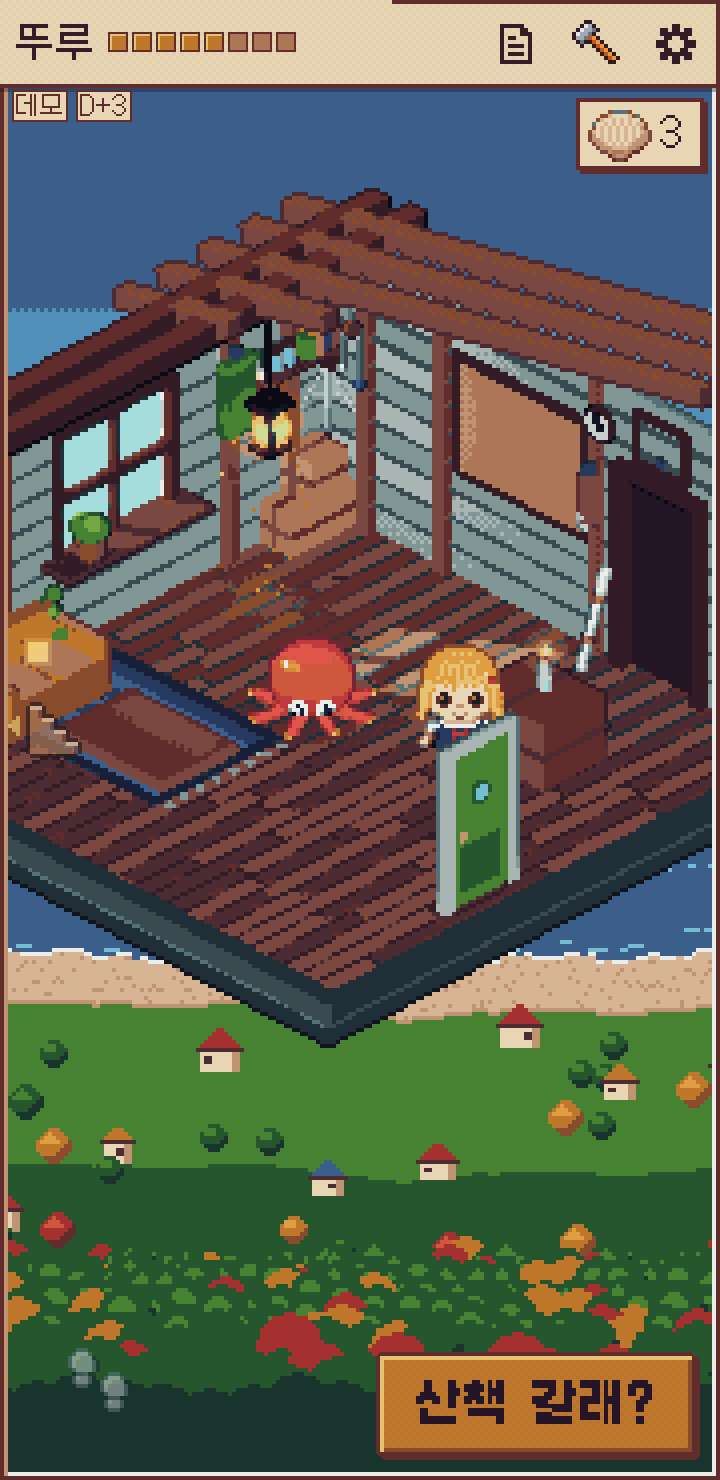
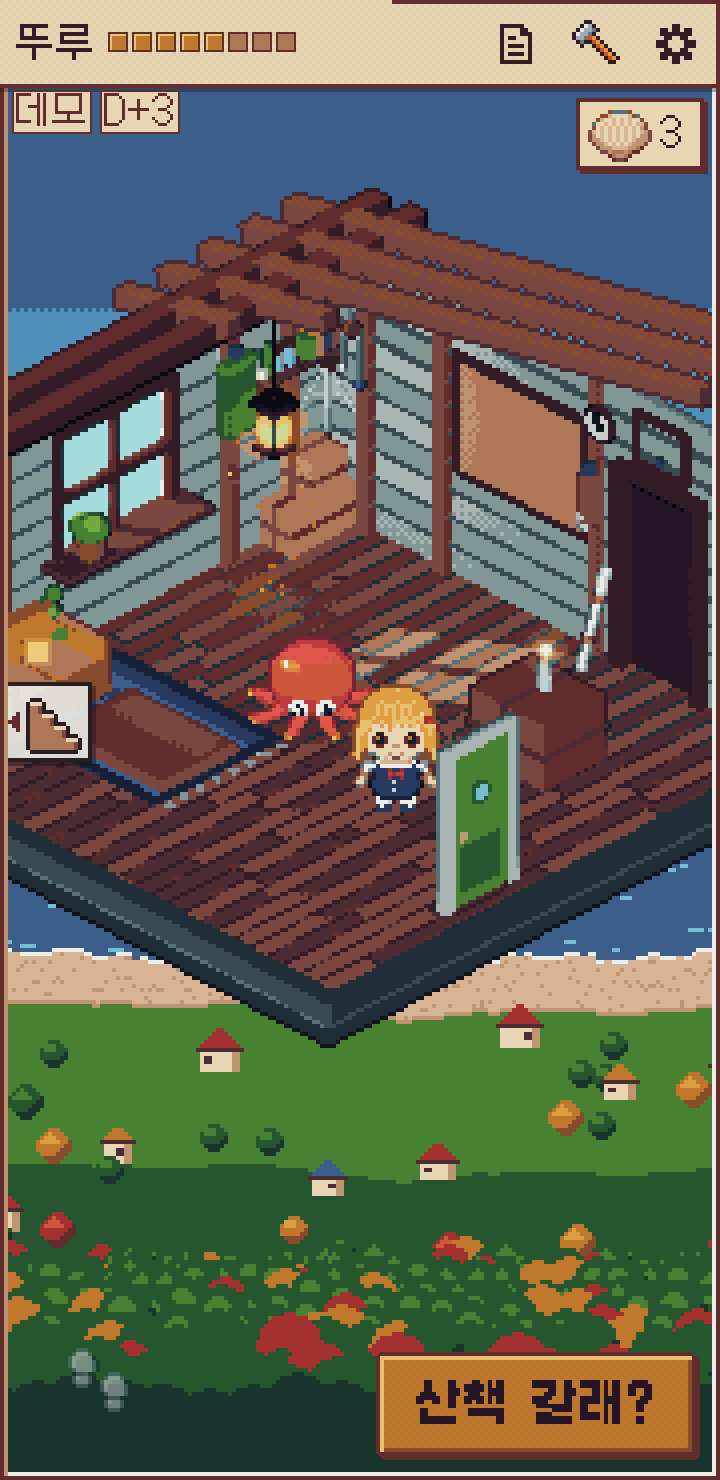
7차 넷째 바퀴 (한 커밋으로): 갈래 U — 글자 16px 바닥: 작은 글 (m16) · 말풍선 크기가 어느 배율 (1 ~ 4) 에서도 목표 밑으로 안 감 · 픽셀 글꼴을 끄면 보이는 글자 16px 밑을 16px 로 · 모션 줄이기 두 번 톡도 600 ms 지킴 · 계단 가장자리 그림 대비 (a244021) · tools/test-fs-snap.js 를 npm test · CI 에
Claude-Session: https://claude.ai/code/session_01Tq2y4UPNUfNv1Bsd1UKef2

diff --git a/js/app.js b/js/app.js
@@ -1711,18 +1711,18 @@ var APP = (function () {
   function goTap(e) {
     if (afterSheet(e)) return;   /* 시트가 닫힌 바로 뒤 (두 번 톡의 둘째): 초대 · 데려오기 · 연출 감기 어느 것도 하지 않는다 */
     salonFinish();   /* 미용실 연출 중이면 남은 연출을 한 번에 감고 (새 색 · 대야 치움 · 남은 행) 초대는 평소대로 */
-    var now = Date.now(), rapid = goRapid(now); lastGo = now;
+    var now = Date.now(), rapid = goRapid(now), quick = now - lastGo < SKIP_GUARD; lastGo = now;   /* 11-24 quick: 앞 누름에서 SKIP_GUARD 안 — 모션 줄이기면 출발이 한 프레임이라 두 번 톡의 둘째가 skipReady 를 지나 산책을 바로 끝냈다 */
     if (inPlay() || roomJob) {   /* 놀이방이면 먼저 문으로 문어 방에 돌아와서 (8물결). 누른 *그때* 의 뜻대로: 다녀오는 중이었으면 데려오기(건너뛰기)만 — 문을 지나는 사이 산책이 끝났으면 아무것도 안 한다 (새 산책이 되지 않게) */
       var wasBusy = busy;
       backToOctRoom().then(function (ok) {
         if (!ok) return;
-        if (wasBusy) { if (busy && Date.now() >= skipReady) skip(); }
+        if (wasBusy) { if (busy && !quick && Date.now() >= skipReady) skip(); }
         else if (!busy && !rapid) invite();
       });
       return;
     }
     if (!busy) { if (!rapid) invite(); return; }
-    if (Date.now() < skipReady) return;
+    if (quick || Date.now() < skipReady) return;
     skip();
   }
   /* 상태 줄 이름 옆 '데모' 표시 (정직 표기, index.html #brain-tag): 데모 두뇌(규칙)가 고르는 동안 늘. 모델(MCP)이 고른 여행을 재생하는 동안만 숨긴다 */
@@ -2434,6 +2434,7 @@ var APP = (function () {
      위 가장자리에 걸린 행이 있으면: 가장 새 행이 그대로 다 보이는 한 그 행 머리로 올린다. 그래도 안 되면 아래 빈칸을 그만큼 늘려 다음 행 머리에 맞춘다 (잘린 상자 대신 아래 여백).
      행 자리는 offsetTop (#log 가 기준 — 등장 애니메이션의 transform 과 상관없이). logGap = 맨 아래에서 올린 만큼 (손으로 굴렸는지 볼 때 같이 뺀다) */
   function logSnapTop(log) {
+    if (FF.on) ffFix(log);   /* 11-24: 기본 글꼴의 글자 바닥을 재기 전에 (그린 뒤에 커지면 맞춘 자리가 어긋났다) */
     log.style.paddingBottom = '';
     var max = log.scrollHeight - log.clientHeight, view = log.clientHeight, GAP = 2;
     logGap = 0;
@@ -5491,11 +5492,49 @@ var APP = (function () {
      두 창의 open 속성만 본다 (달리기 창은 처음 열 때 생긴다 → body 아래 전부를 본다. 여닫는 코드는 건드리지 않는다) */
   function sceneCoverSync() { if (scene && typeof scene.setCovered === 'function') scene.setCovered(!!document.querySelector('#runner-dlg[open], #cook-overlay[open]')); }
   if (window.MutationObserver && document.body) new MutationObserver(sceneCoverSync).observe(document.body, { attributes: true, attributeFilter: ['open'], subtree: true });
+  /* 11-24 글자 바닥 (점검: 픽셀 글꼴을 끄면 (data-font=system) 13 · 12 · 11 px 글자가 HUD · 설정 · 앨범 · 일기 · 가방 · 옷장 곳곳에 남았다 — 보이는 글자는 늘 16 px 이상):
+     기본 글꼴 모드에서만, 글자를 직접 품은 요소의 계산된 크기가 16 px 밑이면 그 요소만 16 px 로 올린다 (줄 높이가 모자라면 함께). 새로 그려지는 시트 · 줄도 따라 맞춘다 (MutationObserver).
+     픽셀 글꼴로 돌아가면 올린 것을 다 거둔다. SVG 글 (포스터 그림 속) · 화면 낭독기 전용 글 (.sr-only) 은 건드리지 않는다 */
+  var FF = { on: false, mo: null, q: [], raf: 0, moved: false };
+  function ffText(el) { for (var c = el.firstChild; c; c = c.nextSibling) if (c.nodeType === 3 && /\S/.test(c.nodeValue)) return true; return false; }
+  function ffOne(el) {
+    if (el.nodeType !== 1 || el.namespaceURI !== 'http://www.w3.org/1999/xhtml' || el.closest('svg, .sr-only, [data-ff-skip]') || !ffText(el)) return;
+    var cs = getComputedStyle(el), f = parseFloat(cs.fontSize); if (!(f > 0) || f >= 15.99) return;
+    el.style.setProperty('font-size', '16px'); el.setAttribute('data-ff', '1'); FF.moved = true;
+    var lh = parseFloat(cs.lineHeight); if (lh > 0 && lh < 20) el.style.setProperty('line-height', '20px');
+  }
+  function ffFix(root) { if (!root || root.nodeType !== 1) return; ffOne(root); var all = root.getElementsByTagName('*'); for (var i = 0; i < all.length; i++) ffOne(all[i]); }
+  function ffFlush() { FF.raf = 0; var q = FF.q; FF.q = []; if (FF.on) for (var i = 0; i < q.length; i++) if (q[i].isConnected) ffFix(q[i]); ffAfter(); }
+  function ffSnapLog() { var log = $('log'); if (!log || !logStick) return; var top = logSnapTop(log); progScrollUntil = Date.now() + 80; logTarget = -1; log.scrollTop = top; logLastY = log.scrollTop; }
+  function ffAfter() { if (!FF.moved) return; FF.moved = false; try { ffSnapLog(); requestAnimationFrame(function () { try { ffSnapLog(); } catch (e) {} }); } catch (e) { /* 부팅 중: 로그가 아직 없다 */ } }   /* 바로 놓고 (부드러운 스크롤이 크기 바뀜과 엉키지 않게) 다음 프레임에 한 번 더 */   /* 크기가 바뀌면 오늘의 산책 로그의 맨 위 행 맞춤을 다시 (붙여 둔 채일 때만 — scrollLog 가 본다) */
+  function ffSync() {
+    var on = document.documentElement.getAttribute('data-font') === 'system';
+    if (on === FF.on) return; FF.on = on;
+    if (on) {
+      ffFix(document.body);
+      FF.mo = FF.mo || new MutationObserver(function (ms) { ms.forEach(function (m) { for (var i = 0; i < m.addedNodes.length; i++) { var n = m.addedNodes[i]; FF.q.push(n.nodeType === 1 ? n : m.target); } }); ffFlush(); });   /* 그린 그 자리에서 (다음 프레임 전) */
+      FF.mo.observe(document.body, { childList: true, subtree: true });
+    } else {
+      if (FF.mo) FF.mo.disconnect();
+      Array.prototype.forEach.call(document.querySelectorAll('[data-ff]'), function (el) { el.style.removeProperty('font-size'); el.style.removeProperty('line-height'); el.removeAttribute('data-ff'); FF.moved = true; });
+    }
+    ffAfter();
+  }
+  if (window.MutationObserver && document.body) { new MutationObserver(ffSync).observe(document.documentElement, { attributes: true, attributeFilter: ['data-font'] }); ffSync(); }
+  /* 11-24 폰 (꼬리표를 바 아래에 매다는 폭): 'D+N' 은 '데모' 꼬리표의 실제 오른쪽 끝에서 4 px — 글자 크기가 배율마다 달라 (16 · 18 · 20.6 px) 고정 자리는 겹치거나 벌어졌다 */
+  function placeDayN() {
+    var el = $('day-n'), tg = $('brain-tag'); if (!el || !tg) return;
+    if (getComputedStyle(el).position !== 'absolute' || tg.hidden || getComputedStyle(tg).position !== 'absolute') { el.style.removeProperty('left'); return; }
+    el.style.left = (tg.offsetLeft + tg.offsetWidth + 4) + 'px';
+  }
+  if (window.ResizeObserver) { var dnRO = new ResizeObserver(function () { placeDayN(); }); ['brain-tag', 'day-n'].forEach(function (id) { var e = $(id); if (e) dnRO.observe(e); }); }
+  window.addEventListener('resize', function () { placeDayN(); });
   function dayCount() { return isObj(S.user) && Array.isArray(S.user.days) ? S.user.days.length : 0; }
   function renderDayN() {
     var el = $('day-n'), n = dayCount(); if (!el) return;
     el.hidden = n < 1; el.textContent = n < 1 ? '' : 'D+' + n;
     if (n < 1) el.removeAttribute('aria-label'); else el.setAttribute('aria-label', '들어온 지 ' + n + '일째');
+    placeDayN();
   }
 
 

diff --git a/tools/smoke.js b/tools/smoke.js
@@ -290,7 +290,7 @@ async function scenarioMain(browser) {
   ok(strip.h <= 44 && strip.rows === 1 && Math.abs(strip.nameTop - strip.pipsTop) < 12, '상태 줄 한 줄 ≤44px (' + strip.h + 'px)');
   ok(/등불/.test(strip.txt) && /1\/8/.test(strip.txt) && !strip.demo && !strip.stat && !/여행|함께한 날/.test(strip.txt), "상태 줄: '등불 … 1/8', 예전 데모 두뇌 칩·여행·함께한 날 없음");
   /* 11-15 5차 (주인: 작은 글자도 받침이 안 뭉개지게 — Galmuri7 8px → Galmuri11 12px, 기기 배율에 맞추면 최대 약 13.7px): 작되 읽히는 크기 */
-  ok(strip.tag === '데모' && strip.tagSr === '데모 규칙이 움직이는 중' && strip.tagFs >= 10 && strip.tagFs <= 14, "상태 줄(좁으면 바로 아래)의 작은 '데모' 표시 (" + strip.tagFs + "px, 화면 낭독기 '데모 규칙이 움직이는 중')");
+  ok(strip.tag === '데모' && strip.tagSr === '데모 규칙이 움직이는 중' && strip.tagFs >= 16 && strip.tagFs <= 16 * 1.35 + 0.02, "상태 줄(좁으면 바로 아래)의 '데모' 표시 — 11-22 보이는 글자는 16 px 이상 (" + strip.tagFs + "px, 화면 낭독기 '데모 규칙이 움직이는 중')");
   ok(!(await page.$('#hint-in')) && !(await page.$('#hint-box')), '힌트 칸은 개발 화면에도 없다 (11-10 에 없앰)');
   ok((await page.$$('#log .lrow')).length >= 5, '로그 행 ≥5');
   await page.waitForTimeout(200);
@@ -5128,7 +5128,7 @@ async function scenarioTapFit(browser) {
           if (r.dy) slid++;
           /* 11-15 갈래 H (주인: 말풍선이 화면을 가린다) → 5차 (주인: 글자 조금 키움): 폭은 장면의 60% (150~220px) · 픽셀은 Galmuri11 을 기기 px 에 맞춘 약 17px
              (눈금 12 × 정수 n / 배율 — index.html 머리 스크립트의 --bub-fs, 배율 1 이면 12px) · 줄 높이 1.5 · 24+… 줄은 세 줄 안 */
-          var capW = Math.max(150, Math.min(220, Math.floor(r.sw * 0.6))), bubFs = Math.ceil(12 * Math.max(1, Math.round(17 * r.dpr / 12)) / r.dpr * 64) / 64;   /* 11-15 js/fs-snap.js 와 같은 식 (1/64 px 올림) */
+          var capW = Math.max(150, Math.min(220, Math.floor(r.sw * 0.6))), bubFs = (function (v) { return v > 17 * 1.35 ? 17 : v; })(Math.ceil(12 * Math.max(1, Math.ceil(17 * r.dpr / 12 - 1e-6)) / r.dpr * 64) / 64);   /* 11-24 js/fs-snap.js 그대로 (17 px 밑으로 안 내려감 · 다음 눈금이 너무 크면 17) */
           if (r.w > capW + 0.5) sizeBad.push(vp[0] + ' ' + theme + ' ' + a + ' L' + li + ' w ' + r.w + ' > ' + capW);
           if (theme === 'pixel' && (Math.abs(parseFloat(r.fs) - bubFs) > 0.01 || r.ff !== 'Galmuri11' || Math.abs(r.lh - bubFs * 1.5) > 0.6)) sizeBad.push(vp[0] + ' pixel font ' + r.fs + ' ' + r.ff + ' ' + r.lh + ' (바람 ' + bubFs + ')');
           if (li === 1 && r.lh && Math.round((r.h - r.bt) / r.lh) > 3) sizeBad.push(vp[0] + ' ' + theme + ' ' + a + ' lines ' + Math.round((r.h - r.bt) / r.lh));
@@ -8200,6 +8200,36 @@ async function scenarioU7(browser) {
     await o5.ctx.close();
   }
   await o4.ctx.close();
+  /* 11-24 보이는 글자는 16 px 이상 — 픽셀 글꼴을 끈 (data-font=system) 화면 · 시트 전부 (HUD · 등불 말풍선 · 알림 · 설정 (다 펼침) · 앨범 · 오늘의 산책 · 가방 · 옷장) */
+  var sysRec = JSON.parse(JSON.stringify(rec)); sysRec.settings.pixelFont = false;
+  var o6 = await openApp(360, 740, sysRec), p6 = o6.page;
+  function small(tag) { return p6.evaluate(function (tag) {
+    var out = [], w = document.createTreeWalker(document.body, NodeFilter.SHOW_TEXT), n;
+    while ((n = w.nextNode())) {
+      var e = n.parentElement; if (!n.nodeValue.trim() || !e || e.closest('svg, .sr-only')) continue;
+      var r = e.getBoundingClientRect(); if (!r.width || !r.height) continue;
+      var p = e, vis = true; while (p) { var c = getComputedStyle(p); if (c.display === 'none' || c.visibility === 'hidden' || (p.tagName === 'DIALOG' && !p.open) || (p.tagName === 'DETAILS' && !p.open && !e.closest('summary'))) { vis = false; break; } p = p.parentElement; }
+      if (vis && parseFloat(getComputedStyle(e).fontSize) < 15.99) out.push(tag + ':' + (e.id || e.className || e.tagName) + ' ' + getComputedStyle(e).fontSize + ' «' + n.nodeValue.trim().slice(0, 8) + '»');
+    }
+    return out; }, tag); }
+  var sm = [].concat(await small('hud'));
+  await p6.click('#pips'); await p6.waitForTimeout(200); sm = sm.concat(await small('tip'));
+  for (var sh of [['set', function () { APP.openSettings(); [].forEach.call(document.querySelectorAll('#set-body details'), function (d) { d.open = true; }); }], ['album', function () { document.getElementById('btn-album').click(); }],
+    ['today', function () { var b = document.getElementById('btn-today'); if (b) b.click(); }], ['bag', function () { document.getElementById('btn-bag').click(); }], ['look', function () { APP.openLook(); }]]) {
+    await p6.evaluate(function () { [].forEach.call(document.querySelectorAll('dialog[open]'), function (d) { d.close(); }); }); await p6.waitForTimeout(300);
+    await p6.evaluate(sh[1]); await p6.waitForTimeout(700); sm = sm.concat(await small(sh[0]));
+  }
+  ok(sm.length === 0, '픽셀 글꼴을 끈 화면 · 시트에 16 px 밑 글자 없음 (' + sm.length + ' · ' + sm.slice(0, 4).join(' / ') + ')');
+  await o6.ctx.close();
+  /* 11-24 모션 줄이기: '산책 갈래?' 를 빠르게 두 번 (110 ms) 톡 → 둘째는 데려오기가 아니다 (SKIP_GUARD 600 ms 는 모션과 상관없이) */
+  var rmRec = JSON.parse(JSON.stringify(rec)); rmRec.settings.motion = 'reduce';
+  var o7 = await openApp(360, 740, rmRec), p7 = o7.page;
+  await p7.route(/wikipedia\.org/, function (r) { return r.fulfill({ status: 200, contentType: 'application/json', body: '{}' }); });   /* 나가는 산책의 위키 요청은 밖으로 보내지 않는다 */
+  await p7.emulateMedia({ reducedMotion: 'reduce' }); await p7.waitForTimeout(2600);
+  var dt = await p7.evaluate(function () { return new Promise(function (res) { var g = document.getElementById('btn-go'); g.click(); setTimeout(function () { g.click(); }, 110);
+    setTimeout(function () { res({ away: g.classList.contains('away'), running: APP.state.trips.filter(function (t) { return t.status === 'running'; }).length }); }, 450); }); });
+  ok(dt.away && dt.running === 1, '모션 줄이기: 빠른 두 번 톡의 둘째는 산책을 끝내지 않는다 (' + JSON.stringify(dt) + ')');
+  await o7.ctx.close();
   ok(bag.length === 0, 'U7: 페이지 오류 없음 (' + bag.join(' | ').slice(0, 200) + ')');
 }
 

diff --git a/js/fs-snap.js b/js/fs-snap.js
@@ -6,13 +6,19 @@
    11-15 (UI 점검): 크기를 1/64 px 위로 올림 — 크롬은 글자 너비를 1/64 px 로 자른다. 예전 toFixed(4) 는 18.2857 처럼 살짝 모자라서 2.625 배율에서 네다섯 글자 뒤부터 점이 기기 px 밖으로 밀렸다.
    배율 1 · 2 · 3 의 값은 이미 1/64 의 정수 배라 그대로다. 배율이 바뀌면 (창 옮김 · 확대) 다시 맞춘다 */
 (function () {
-  var R = document.documentElement, S = { m16: [12, 16], b20: [10, 20], u20: [12, 20], u24: [12, 24], n16: [8, 16, 1], u12: [12, 12, 1], h20: [12, 20, 1], b20f: [10, 20, 1], u24f: [12, 24, 1] }, BUB = [12, 17], last = 0;
-  function snap(g, want, d, up) { var x = want * d / g, n = Math.max(1, up ? Math.ceil(x - 1e-6) : Math.round(x)); return (Math.ceil(g * n / d * 64) / 64) + 'px'; }
+  var R = document.documentElement, S = { m16: [12, 16, 2], b20: [10, 20], u20: [12, 20], u24: [12, 24], n16: [8, 16, 1], u12: [12, 12, 1], h20: [12, 20, 1], b20f: [10, 20, 1], u24f: [12, 24, 1] }, BUB = [12, 17, 2], last = 0;
+  /* 11-24 (점검: 배율 1 · 1.75 · 2.5 · 4 에서 m16 이 12 · 13.7 · 14.4 · 15 px — 보이는 글자는 늘 16 px 이상): 셋째 칸 2 = 바라는 크기 밑으로 안 내려가되,
+     다음 눈금이 바라는 크기의 1.35 배를 넘으면 (배율 1 에서 16 → 24) 눈금 대신 바라는 크기 그대로 (그 배율에선 점이 조금 고르지 않아도 작지 않은 쪽) */
+  function snap(g, want, d, up) {
+    var x = want * d / g, n = Math.max(1, up ? Math.ceil(x - 1e-6) : Math.round(x)), v = Math.ceil(g * n / d * 64) / 64;
+    if (up === 2 && v > want * 1.35) v = want;
+    return v + 'px';
+  }
   function apply() {
     var d = window.devicePixelRatio || 1;
     if (d === last) return;
     last = d;
-    try { for (var k in S) R.style.setProperty('--fs-' + k, snap(S[k][0], S[k][1], d, S[k][2])); R.style.setProperty('--bub-fs', snap(BUB[0], BUB[1], d)); } catch (e) { /* 옛 브라우저: 기본값 */ }
+    try { for (var k in S) R.style.setProperty('--fs-' + k, snap(S[k][0], S[k][1], d, S[k][2])); R.style.setProperty('--bub-fs', snap(BUB[0], BUB[1], d, BUB[2])); } catch (e) { /* 옛 브라우저: 기본값 */ }
     try { var mq = window.matchMedia('(resolution: ' + d + 'dppx)'); if (mq.addEventListener) mq.addEventListener('change', apply, { once: true }); else if (mq.addListener) mq.addListener(apply); } catch (e) { /* 배율이 안 바뀌는 곳 */ }
   }
   apply();

diff --git a/tools/test-fs-snap.js b/tools/test-fs-snap.js
@@ -1,0 +1,24 @@
+/* tools/test-fs-snap.js — 픽셀 글꼴 크기 맞춤 (js/fs-snap.js) 검사. node 만.
+   11-24: 보이는 글자는 늘 16 px 이상 — m16 (작은 글) 과 말풍선은 어느 배율에서도 바라는 크기 (16 · 17 px) 밑으로 내려가지 않고, 다음 눈금이 너무 크면 (× 1.35 넘게) 바라는 크기 그대로.
+   다른 역할도 16 px 밑으로 가지 않는다 (u12 '데모' 옛 역할 제외 — 꼬리표는 이제 m16). 기기 px 에 맞는 크기면 (눈금 × 정수 / 배율) 그대로 */
+'use strict';
+var fs = require('fs'), path = require('path');
+var fails = 0, passes = 0;
+function ok(c, m) { if (c) { passes++; console.log('  ok   ' + m); } else { fails++; console.error('  FAIL ' + m); } }
+function load(d) {
+  var props = {}, win = { devicePixelRatio: d, addEventListener: function () {}, matchMedia: function () { return {}; } };
+  var doc = { documentElement: { style: { setProperty: function (k, v) { props[k] = parseFloat(v); } } } };
+  new Function('window', 'document', fs.readFileSync(path.join(__dirname, '..', 'js', 'fs-snap.js'), 'utf8'))(win, doc);
+  return props;
+}
+console.log('\n== fs-snap: 배율마다 작은 글 (m16) · 말풍선 (bub-fs) 크기');
+[1, 1.25, 1.5, 1.75, 2, 2.25, 2.5, 2.625, 2.75, 3, 3.5, 4].forEach(function (d) {
+  var p = load(d), m = p['--fs-m16'], b = p['--bub-fs'];
+  function crispOr(v, want) { var n = v * d / 12; return Math.abs(n - Math.round(n)) < 0.02 || v === want; }
+  ok(m >= 16 && m <= 16 * 1.35 + 0.02 && crispOr(m, 16), '배율 ' + d + ': m16 = ' + m + ' px (16 이상 · 21.6 이하 · 기기 px 눈금이거나 16 그대로)');
+  ok(b >= 17 && b <= 17 * 1.35 + 0.02 && crispOr(b, 17), '배율 ' + d + ': 말풍선 = ' + b + ' px (17 이상)');
+  var low = Object.keys(p).filter(function (k) { return k !== '--fs-u12' && p[k] < 16 - 1e-6; });
+  ok(low.length === 0, '배율 ' + d + ': 16 px 밑인 역할 없음 (' + low.join(', ') + ')');
+});
+console.log('\ntest-fs-snap: ' + passes + ' passed, ' + fails + ' failed');
+process.exit(fails ? 1 : 0);

diff --git a/css/style.css b/css/style.css
@@ -1772,9 +1772,14 @@ html.intro-on .meal-call { opacity: 0; visibility: hidden; }
 .stair-cue[hidden] { display: none; }
 .stair-cue[data-side="right"] { left: auto; right: 0; flex-direction: row-reverse; padding: 0 2px 0 0; }
 .stair-cue-ico { display: block; width: 32px; height: 32px; image-rendering: pixelated; }
-.stair-cue-arrow { display: block; flex: 0 0 auto; width: 6px; height: 10px; background: #e8c170; clip-path: polygon(6px 0, 4px 0, 4px 2px, 2px 2px, 2px 4px, 0 4px, 0 6px, 2px 6px, 2px 8px, 4px 8px, 4px 10px, 6px 10px); }
+.stair-cue-arrow { display: block; flex: 0 0 auto; width: 6px; height: 10px; background: #602c2c; clip-path: polygon(6px 0, 4px 0, 4px 2px, 2px 2px, 2px 4px, 0 4px, 0 6px, 2px 6px, 2px 8px, 4px 8px, 4px 10px, 6px 10px); }
 .stair-cue[data-side="right"] .stair-cue-arrow { transform: scaleX(-1); }
 .stair-cue:active { transform: translate(2px, 2px); }
+/* 11-24 (점검: 탁자 위 갈색 72 % 는 잘 안 보였다): 밝은 종이 바탕 + 어두운 테 (픽셀 단추 모양 그대로) · 화살표는 짙은 갈색 · 흐림 없음 */
+.stair-cue { opacity: 1; width: 44px; height: 40px; padding: 0 2px; gap: 1px; background: rgba(235, 237, 233, .9); box-shadow: inset 0 0 0 2px #2b1d22, 2px 2px 0 rgba(27, 21, 34, .45); }
+.stair-cue { left: 4px; }
+.stair-cue[data-side="right"] { left: auto; right: 4px; padding: 0 2px; }
+.stair-cue .stair-cue-ico { width: 32px; height: 32px; }
 :root.furn-on .stair-cue, #scene.salon-on .stair-cue { visibility: hidden; }
 /* 11-21 설정 구역 접기 (js/app.js setSecFold): 제목 줄 = summary (누르는 곳 44px), 오른쪽 끝에 픽셀 꺾쇠 그림 (글자 아님 — 닫힘 ▸ 모양 · 열림 ▾ 모양을 clip-path 계단으로).
    구역 사이 줄은 summary 가 긋는다 (안의 h3 · .set-parts-h 는 제 줄 · 여백을 내려놓는다) */
